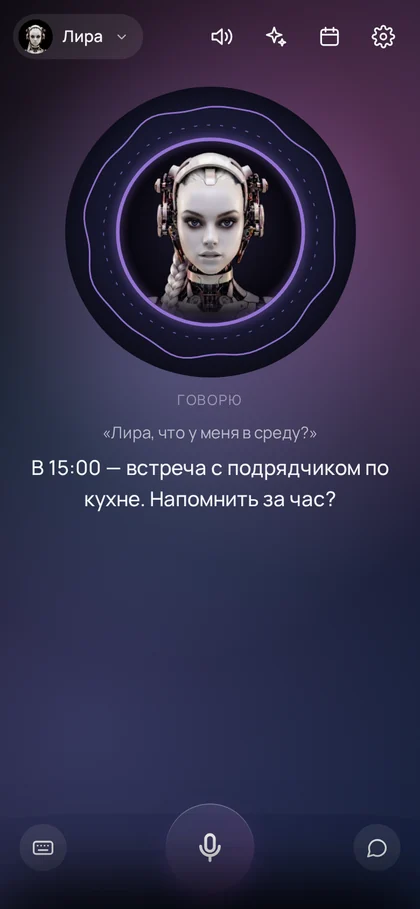
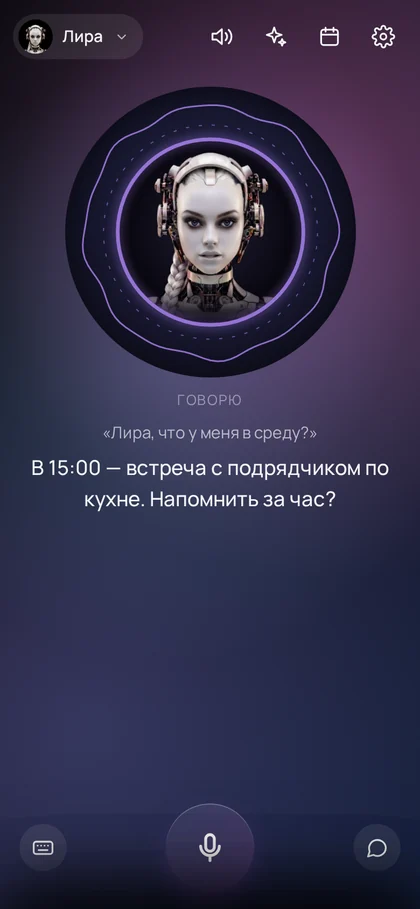
Картинки README обновлены

diff --git a/tools/readme_images.py b/tools/readme_images.py
@@ -22,6 +22,7 @@ sys.path.insert(0, str(ROOT / "core"))
 import personas as P  # noqa: E402
 
 OUT = Path(sys.argv[1]) if len(sys.argv) > 1 else ROOT / "docs/img"
+SITE = Path(sys.argv[2]) if len(sys.argv) > 2 else ROOT / "server/dwrapp"   # лица и обложка для страницы «Скачать»
 COLLECTION = ["dewiar", "agent", "jarvis", "eva", "professor", "femida", "doctor", "iris", "oskar", "gaston", "nika", "mishel"]
 
 
@@ -224,10 +225,46 @@ def main():
             print(f"{OUT / (name + '.webp')}")
         b.close()
     phone(tmp)
+    if SITE.is_dir():                                   # в открытой копии сайта нет — только картинки README
+        site_faces(tmp)
+        Image.open(OUT / "banner.webp").convert("RGB").save(SITE / "dewiar_banner.jpg", "JPEG", quality=86, optimize=True)   # превью ссылки
     if errs:
         print("Ошибки страницы:", errs)
         return 1
     return 0
+
+
+def site_faces(tmp):
+    """Круглые лица всей команды (team-<id>.webp, прозрачные углы) и team.json — для раздела «Команда» на странице
+    «Скачать» (server/dwrapp/download.php): там они на HTML, чтобы и на телефоне подписи читались."""
+    ps = people()
+    for k in ("lira", "patrik"):
+        ps[k]["photo"] = f"av/{k}.webp"
+    cells = "".join(f'<div class="f" id="f-{k}">' + (f'<img src="{p["photo"]}">' if p["photo"] else
+                    f'<canvas data-style="{p["style"]}" data-color="{p["color"]}" width="300" height="300"></canvas>') + "</div>"
+                    for k, p in ps.items())
+    (tmp / "faces.html").write_text(f"""<!doctype html><html><head><meta charset="utf-8"><style>
+body {{ margin: 0; background: transparent; display: flex; flex-wrap: wrap; gap: 10px; padding: 10px; }}
+.f {{ width: 120px; height: 120px; border-radius: 50%; overflow: hidden; background: #050508; }}
+.f img, .f canvas {{ width: 100%; height: 100%; object-fit: cover; display: block; }}
+</style></head><body>{cells}<script src="entities.js"></script><script>
+window.ents = [...document.querySelectorAll("canvas")].map(c => {{ const e = new DewiarEntity(c, {{ style: c.dataset.style, color: c.dataset.color }}); e.set({{ state: "speaking", level: .45 }}); return e; }});
+</script></body></html>""", encoding="utf-8")
+    from playwright.sync_api import sync_playwright
+    with sync_playwright() as p:
+        b = p.chromium.launch()
+        pg = b.new_page(viewport={"width": 1000, "height": 800}, device_scale_factor=2)
+        pg.goto((tmp / "faces.html").as_uri())
+        pg.wait_for_timeout(2500)
+        pg.evaluate("() => ents.forEach(e => e.paused = true)")
+        for k in ps:
+            png = tmp / f"f-{k}.png"
+            pg.locator(f"#f-{k}").screenshot(path=str(png), omit_background=True)
+            Image.open(png).save(SITE / f"team-{k}.webp", "WEBP", quality=88, method=6)
+        b.close()
+    meta = [{"id": k, "name": v["name"], "role": v["role"], "tagline": v["tagline"], "color": v["color"]} for k, v in ps.items()]
+    (SITE / "team.json").write_text(json.dumps(meta, ensure_ascii=False, indent=1) + "\n", encoding="utf-8")
+    print(SITE / "team.json", "+", len(ps), "лиц")
 
 
 def phone(tmp):
